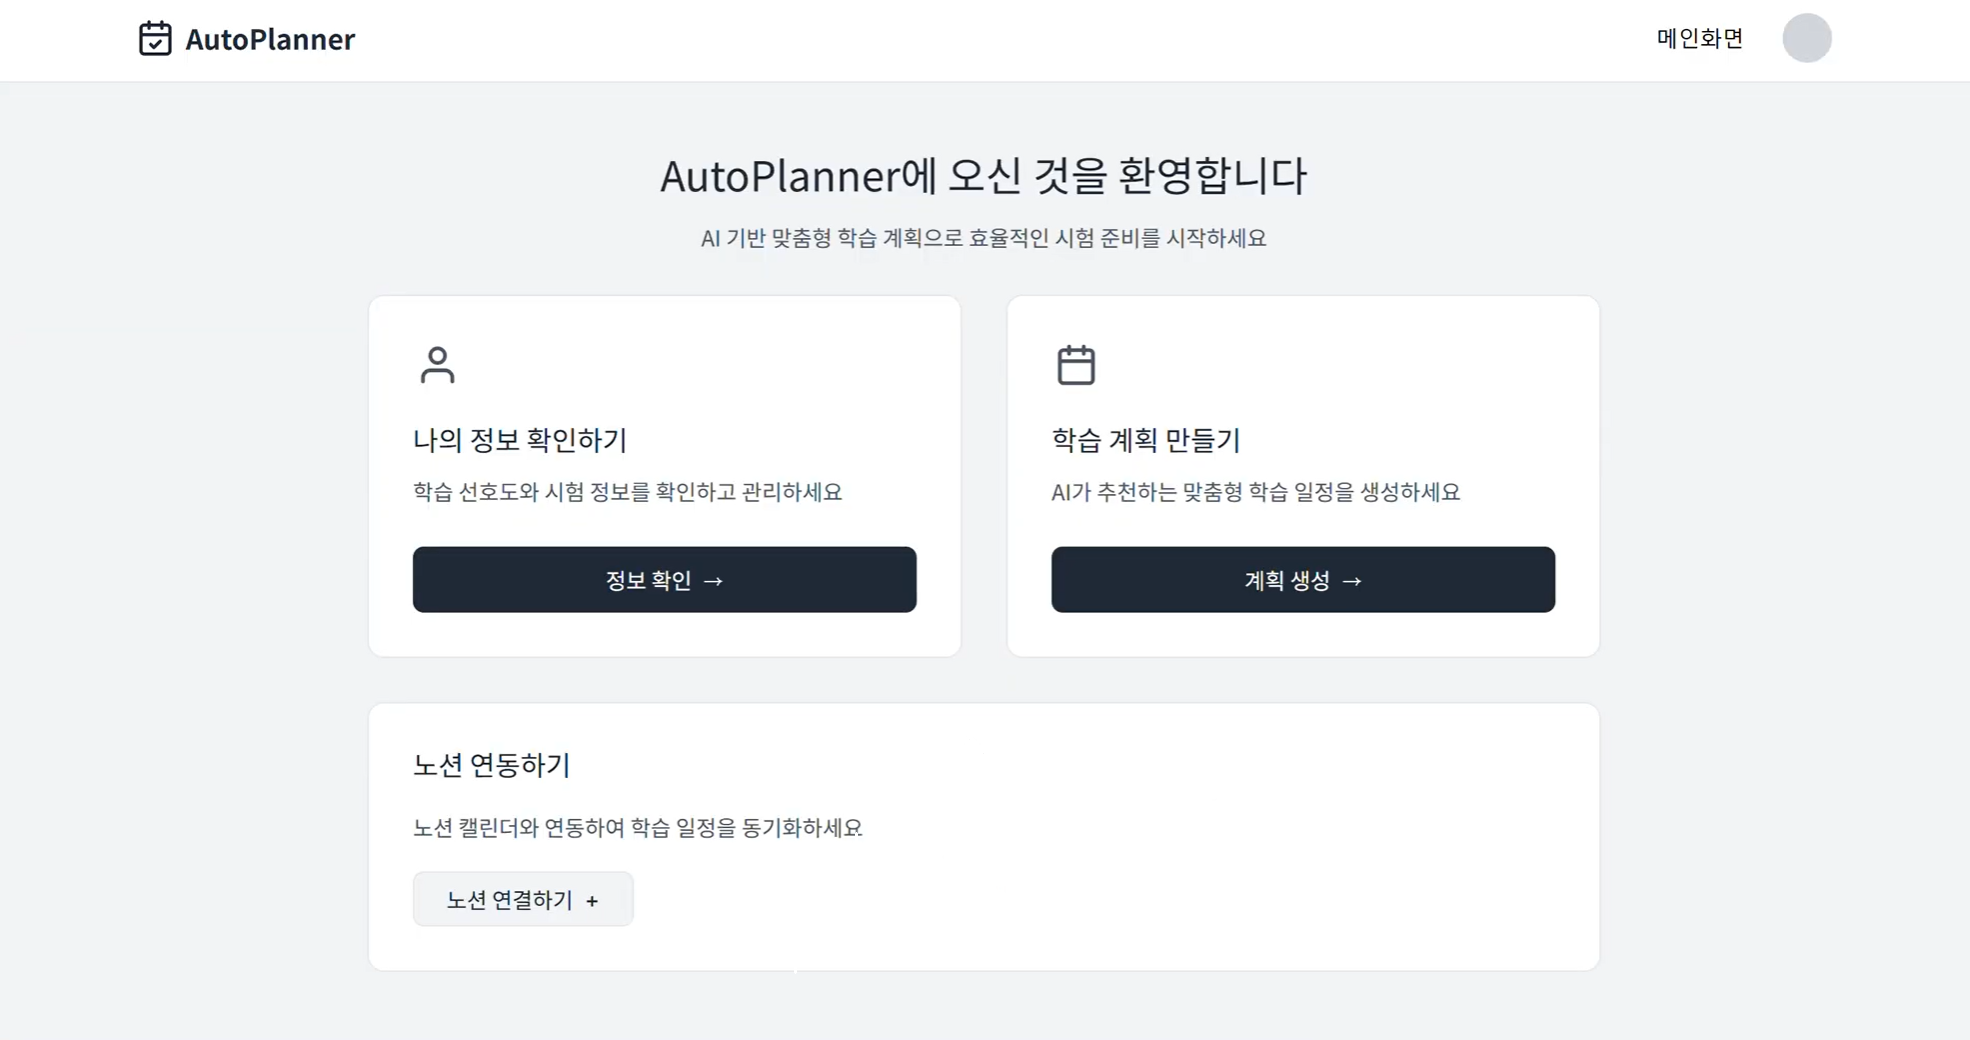
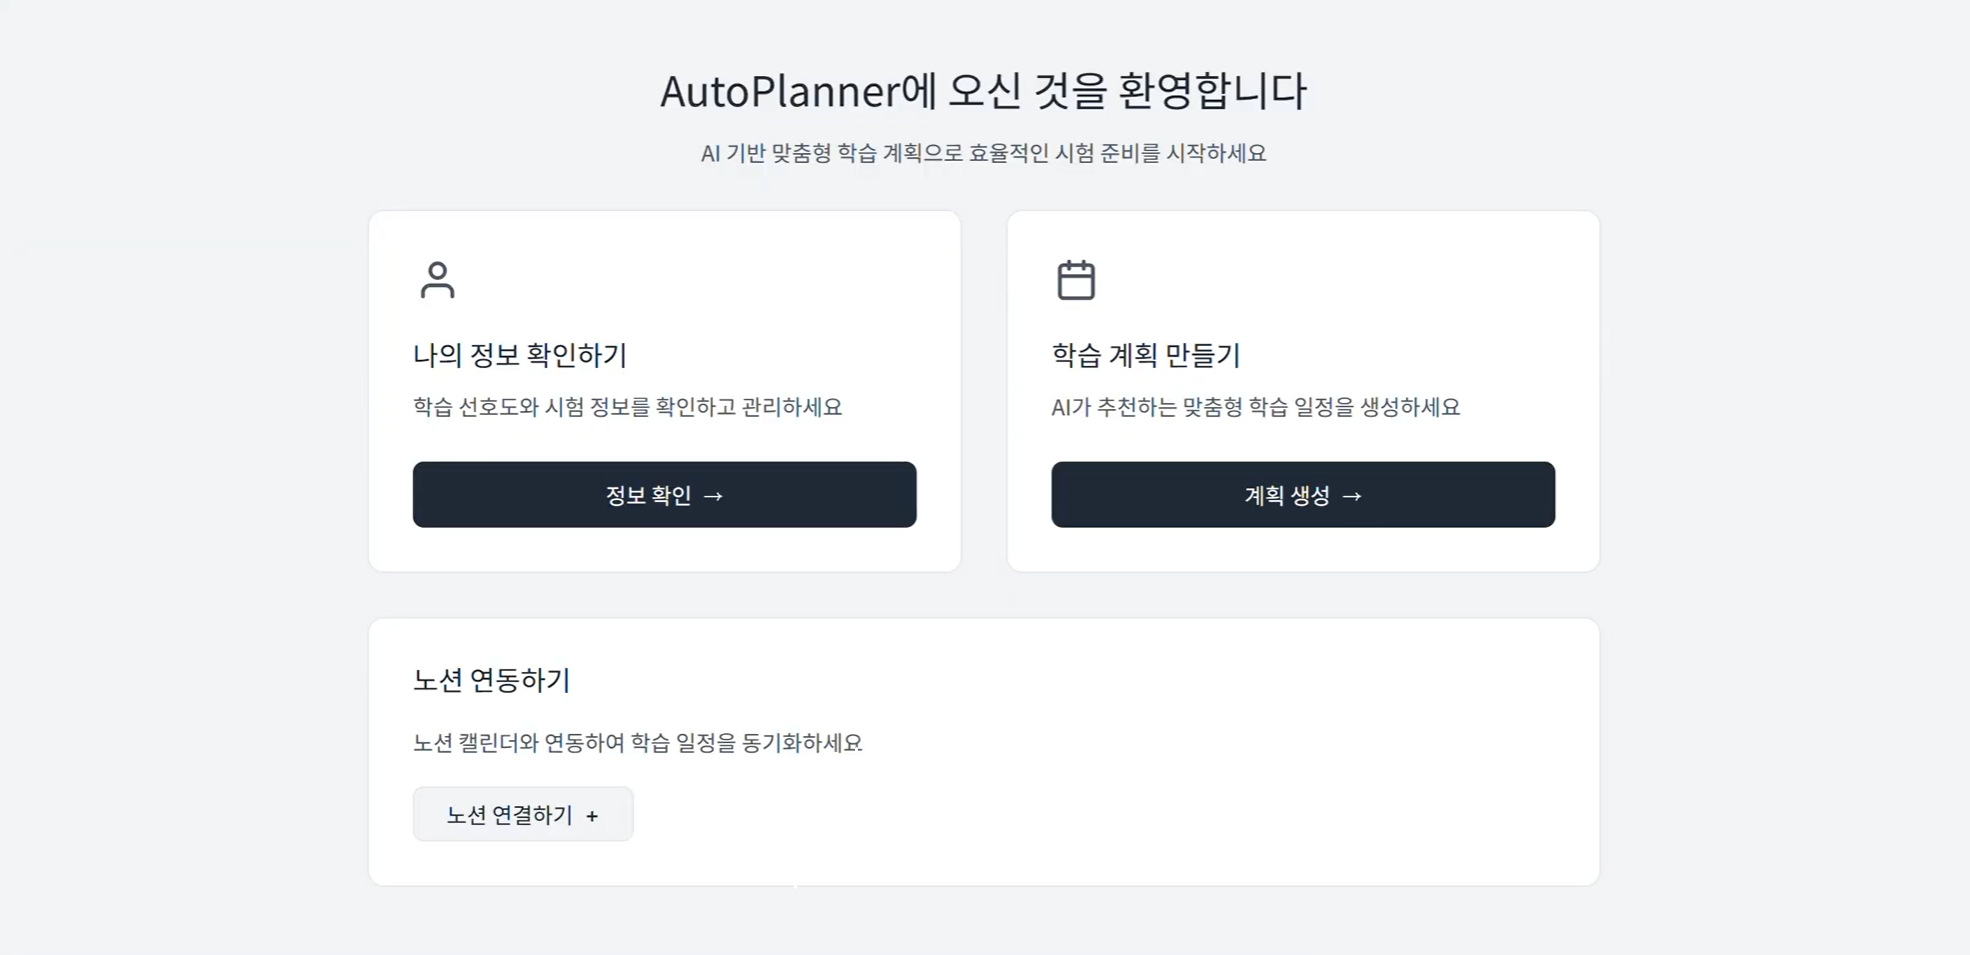
docs: update README for improved clarity and structure

diff --git a/README.md b/README.md
@@ -1,12 +1,21 @@
-# AutoPlanner
+# 🗓️ AutoPlanner
 
 <img src="https://img.shields.io/badge/Frontend-Svelte-FF3E00" alt="Frontend Badge"/> <img src="https://img.shields.io/badge/Backend-NestJS%20%26%20Swagger-E0234E" alt="Backend Badge"/> <img src="https://img.shields.io/badge/Database-PostgreSQL%20%26%20Prisma-4169E1" alt="DB Badge"/> <img src="https://img.shields.io/badge/LLM-Llama_3.3-blueviolet" alt="LLM Badge"/> <img src="https://img.shields.io/badge/Integration-Notion_API-000000" alt="Notion Badge"/>
 
-> LLM 기반 개인 맞춤형 학습 계획표 생성 서비스
+LLM 기반 개인 맞춤형 학습 계획표 생성 서비스
 
 ![AutoPlanner 메인화면](img/main_page.png)
 
 ## 프로젝트 개요
+
 학생들은 여러 과목을 공부해야 하지만 **무엇을 먼저, 얼마나 공부해야 할지** 계획 세우는 것 자체가 부담입니다.
 
-AutoPlanner는 사용자의 공부 성향과 과목/챕터 정보를 입력하면 LLM이 최적화된 학습 계획표를 생성해주고, Notion Calendar에 바로 연동할 수 있는 서비스입니다.
+AutoPlanner는 이 문제를 해결합니다.
+
+1. 내 공부 스타일과 시험 정보를 입력
+2. LLM이 최적화된 학습 플랜을 자동으로 생성
+3. Notion Calendar에 바로 동기화
+
+## 시연 영상
+
+https://github.com/user-attachments/assets/51441379-0184-4c44-b2c1-d08a0d144525